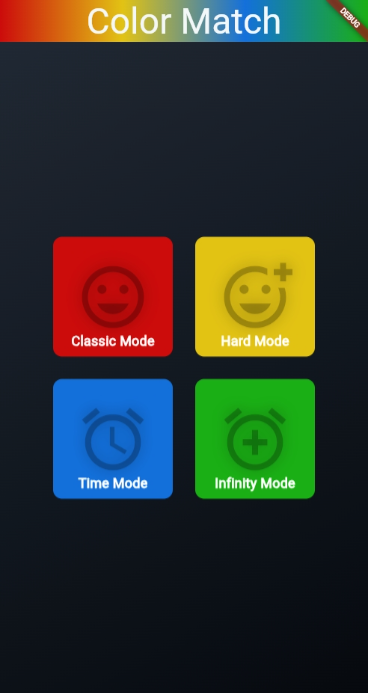
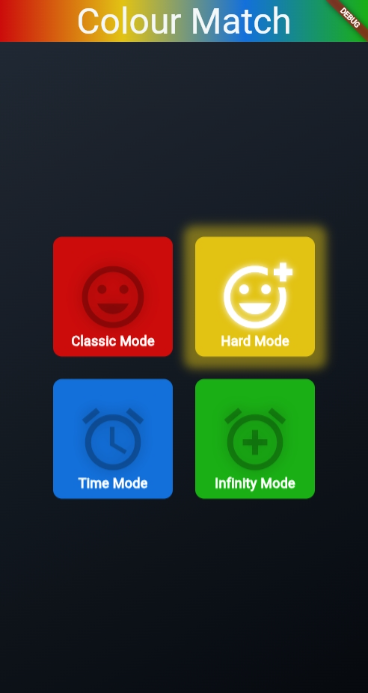
Title fix

Changed region(s): [[0.4783, 0.303, 0.8967, 0.5455], [0.2092, 0.0, 0.8071, 0.0606]]

diff --git a/web/index.html b/web/index.html
@@ -23,13 +23,13 @@
   <!-- iOS meta tags & icons -->
   <meta name="mobile-web-app-capable" content="yes">
   <meta name="apple-mobile-web-app-status-bar-style" content="black">
-  <meta name="apple-mobile-web-app-title" content="color_match">
+  <meta name="apple-mobile-web-app-title" content="colour_match">
   <link rel="apple-touch-icon" href="icons/Icon-192.png">
 
   <!-- Favicon -->
   <link rel="icon" type="image/png" href="favicon.png"/>
 
-  <title>color_match</title>
+  <title>colour_match</title>
   <link rel="manifest" href="manifest.json">
 </head>
 <body>
